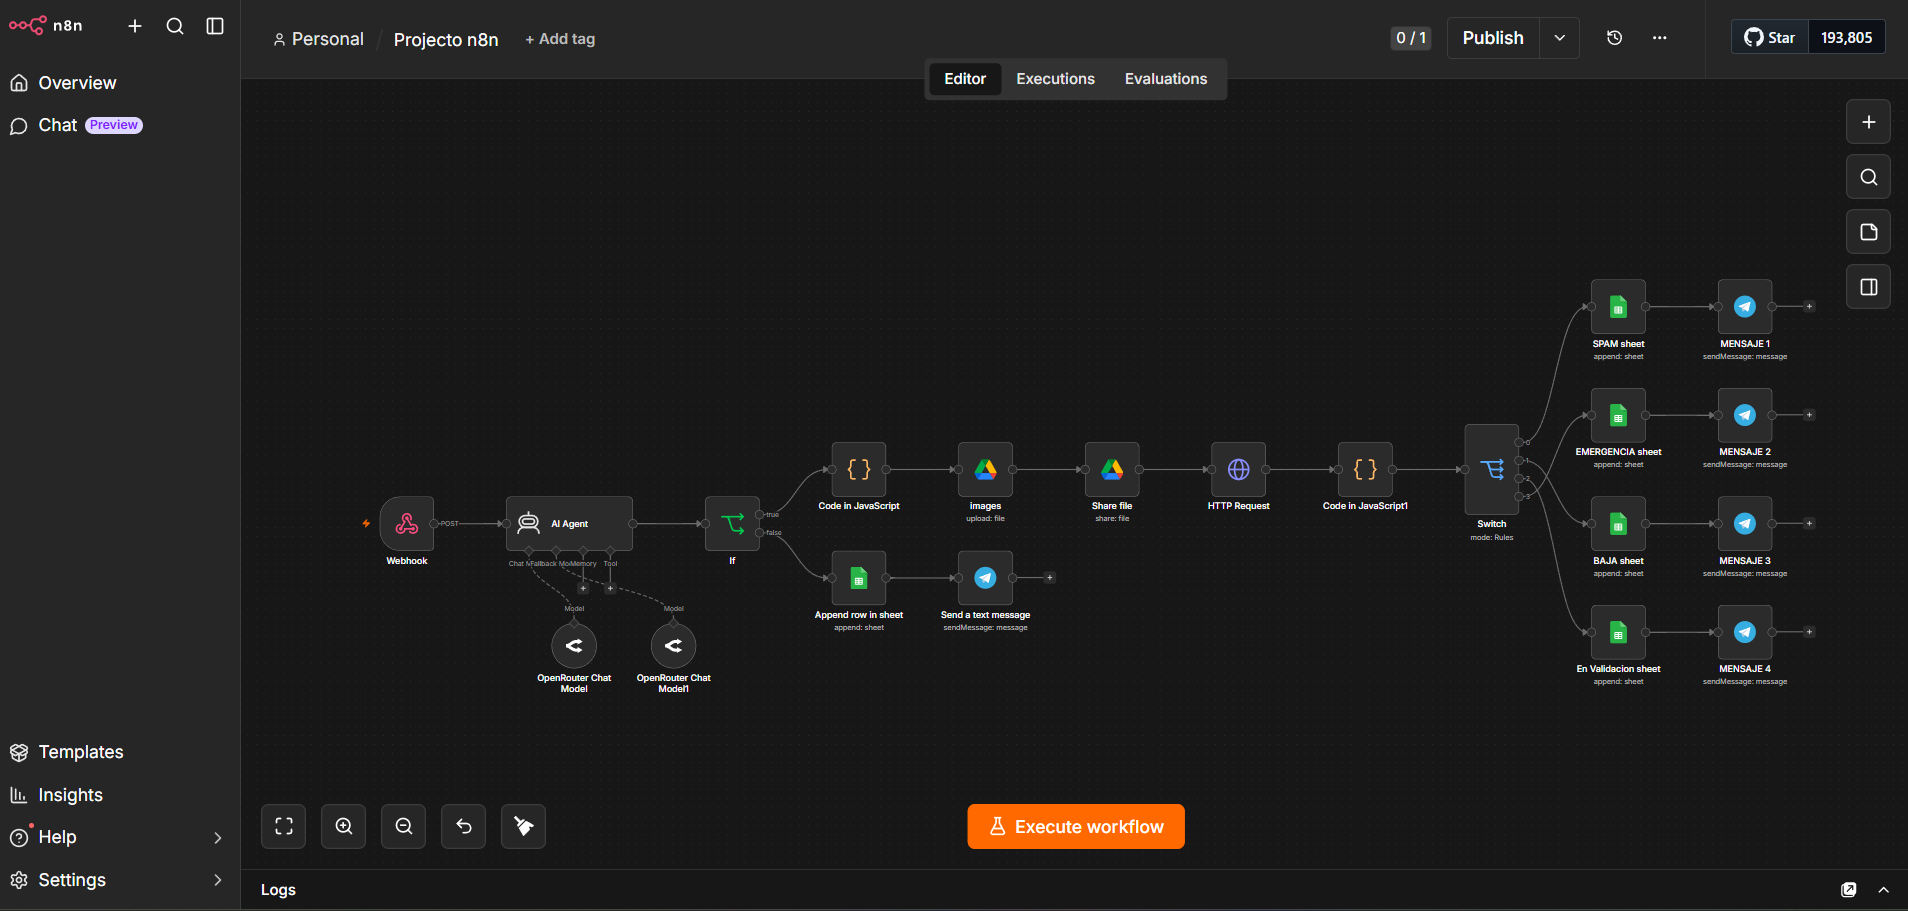
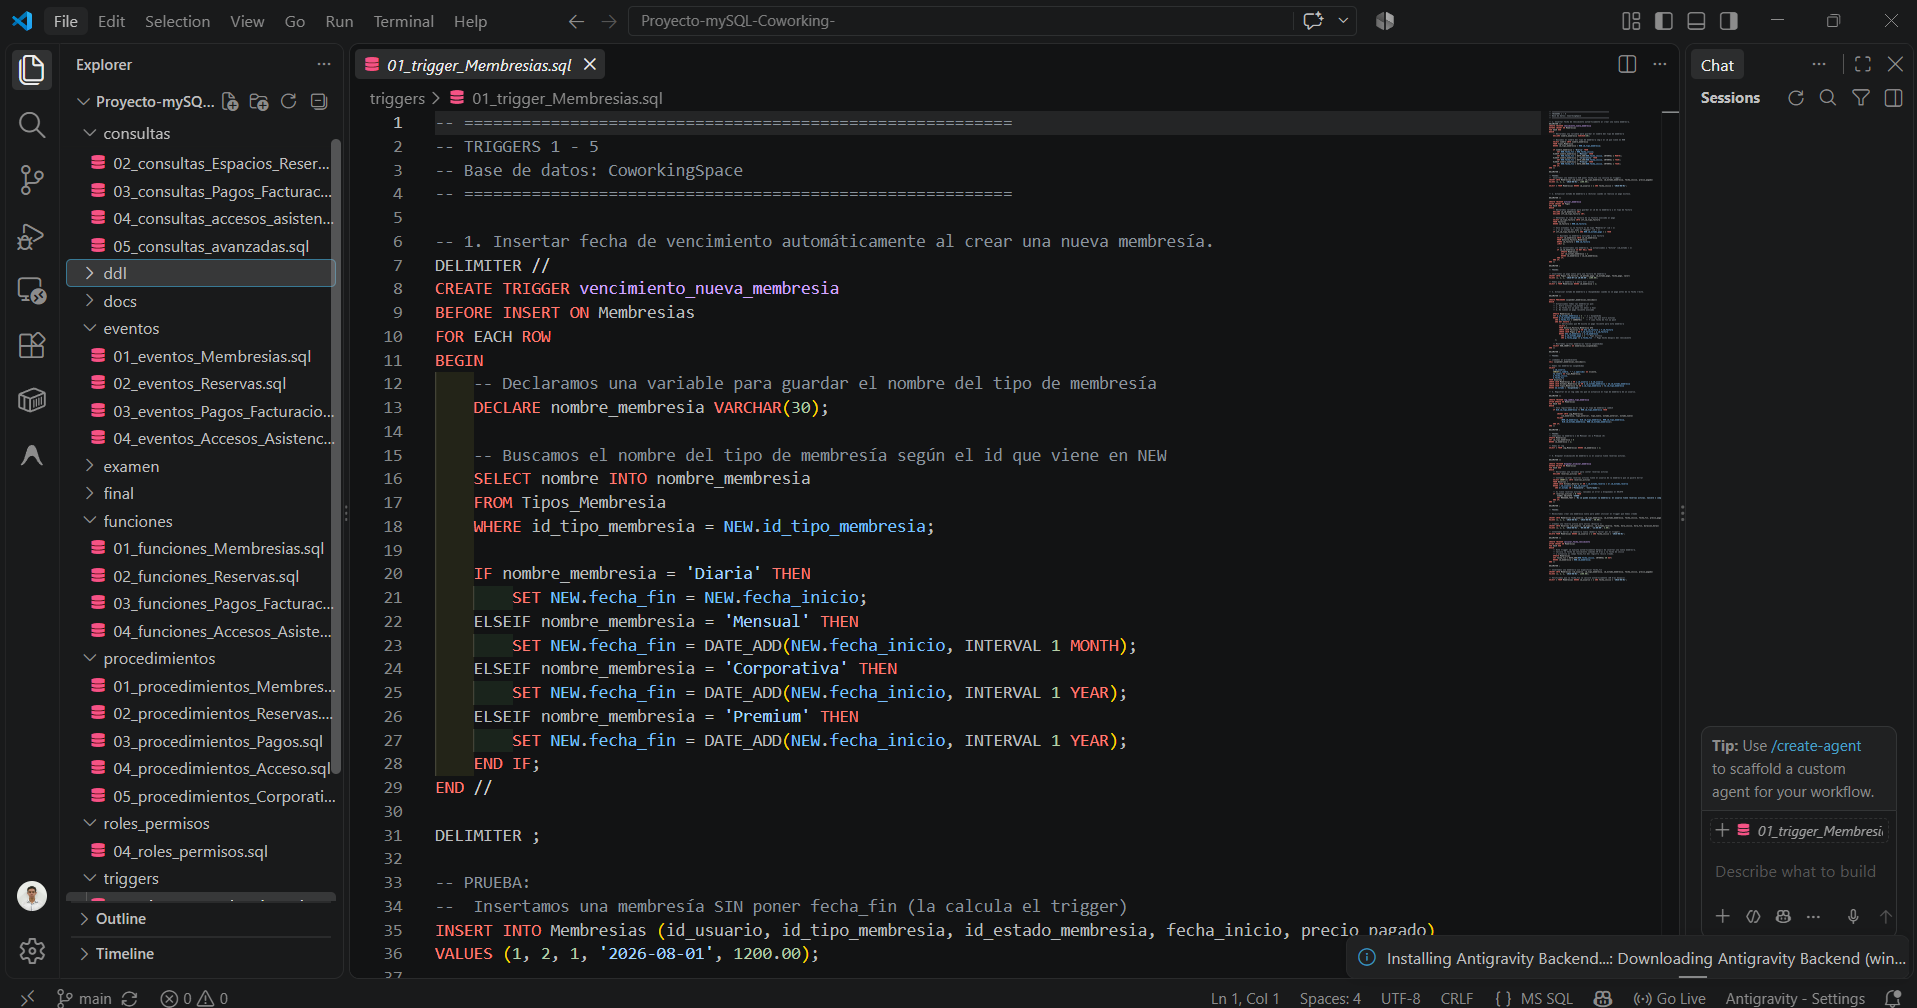
First commit

diff --git a/index.html b/index.html
@@ -11,9 +11,9 @@
     <link rel="stylesheet" href="styles.css">
 
         <!-- ============================================================
-         ⚙ CONFIGURACIÓN RÁPIDA — EDITA AQUÍ TU MISIÓN, VISIÓN Y CV
-         (No hace falta tocar nada más del HTML)
-         ============================================================ -->
+        ⚙ CONFIGURACIÓN RÁPIDA — EDITA AQUÍ TU MISIÓN, VISIÓN Y CV
+        (No hace falta tocar nada más del HTML)
+        ============================================================ -->
     <script>
         window.MI_PORTAFOLIO = {
             // ✏ 1. TU MISIÓN (escríbela entre las comillas)
@@ -29,7 +29,12 @@
             //                                   -> pega aquí el enlace de Drive (Clic derecho
             //                                       sobre el archivo > Compartir > Copiar enlace).
             //                                       El código lo convierte solo al formato embebible.
-            hojaDeVida: "cv/Brayan_Fonseca_CV.pdf"
+            hojaDeVida: "cv/Brayan_Fonseca_CV.pdf",
+            githubProyectos: {
+                "#001": "https://github.com/BrayanFonseca2911/Proyecto-java-RapidExpress",   // 👉 Pega aquí el repo del proyecto mySQL (Flujo Reportes)
+                "#002": "https://github.com/BrayanFonseca2911/Proyecto-mySQL-Coworking-",   // 👉 Pega aquí el repo del proyecto CampusBuild
+                "#003": "https://github.com/BrayanFonseca2911/Proyecto_Campusbuild"    // 👉 Pega aquí el repo del proyecto Music Stream
+            }
         };
     </script>
 </head>
@@ -268,10 +273,11 @@
                         <button type="button" class="btn btn-primary cv-btn" id="btnVerCV">
                             <span class="btn-corner"></span>
                             <i class="fas fa-eye"></i>
-                            <span>Ver hoja de vida</span>
                         </button>
                         <a href="#" class="cv-download" id="btnDescargarCV" download>
-                            <i class="fas fa-download"></i> Descargar
+                            <i class="fas fa-download"></i>
+                            <span class="btn-corner"></span>
+                            <span>Descargar hoja de vida</span>
                         </a>
                     </div>
                 </div>
@@ -394,6 +400,16 @@
                     <span class="skill-percent">74%</span>
                 </div>
             </div>
+            <div class="skill-card reveal" data-tilt>
+                <div class="skill-corner"></div>
+                <div class="skill-icon"><i class="fas fa-database"></i></div>
+                <h3>PostgreSQL</h3>
+                <p>Bases de datos</p>
+                <div class="skill-level">
+                    <div class="skill-fill" style="--level: 70%"></div>
+                    <span class="skill-percent">70%</span>
+                </div>
+            </div>
         </div>
     </section>
 
@@ -405,23 +421,48 @@
         <div class="section-line"></div>
     </div>
     <div class="projects-grid">
+        
+        <article class="project-card reveal" data-tilt>
+            <div class="project-image">
+                <div class="project-scanline"></div>
+                <img src="project-2.png" alt="WeatherNow" class="project-img">
+                <div class="project-overlay">
+                    <a href="#" target="_blank" rel="noopener noreferrer" 
+                    class="project-link project-github" data-proyecto="#001" 
+                    title="Ver repositorio en GitHub" aria-label="Repositorio 
+                    GitHub del proyecto"><i class="fab fa-github"></i></a>
+                </div>
+                <div class="project-id">#003</div>
+            </div>
+            <div class="project-content">
+                <span class="project-category">Orden</span>
+                <h3>RapidExpress</h3>
+                <p>Pagina web diseñada parecida a Spotify donde los usuarios pueden reproducir música y crear listas de reproducción. Tambien hay paquetes de musica premium donde puede escuchar musica sin anuncios.</p>
+                <div class="project-tech">
+                    <span>Java</span><span>Apache NetBeans</span>
+                </div>
+            </div>
+        </article>
+        
         <article class="project-card reveal" data-tilt>
             <div class="project-image">
                 <div class="project-scanline"></div>
                 <img src="project-3.png" alt="ShopFlow" class="project-img">
+                <div class="project-overlay">
+                    <a href="#" target="_blank" rel="noopener noreferrer" class="project-link project-github" data-proyecto="#002" title="Ver repositorio en GitHub" aria-label="Repositorio GitHub del proyecto"><i class="fab fa-github"></i></a>
+                </div>
                 <div class="project-id">#001</div>
             </div>
             <div class="project-content">
                 <span class="project-category">Bases de Datos</span>
-                <h3>mySQL</h3>
-                <p>Desarrollo de una pagina web donde el usuario puede hacer un
-                reporte de una emergencia en la ciudad o barrio. Utilizamos un
-                agente de IA que decide si el daño es critico, bajo, o puede ser un
-                posible spam. Tambien desarrollamos un chatbot por telegram
-                donde envia todos los reportes realizados en la pagina web y el
-                usuario tambien puede mirar los reportes que el ha hecho.</p>
+                <h3>Coworking</h3>
+                <p>Base de datos relacional que administra usuarios y
+membresías, espacios y reservas (escritorios, oficinas, salas), pagos y
+facturación, control de acceso mediante RFID o QR, y define 5 roles de
+sistema. Incluye 100 consultas SQL, 20 triggers, 20 eventos
+programados y 20 procedimientos almacenados.</p>
                 <div class="project-tech">
-                    <span>n8n</span><span>JavaScript</span><span>Telegram</span>
+                    <span>Dbeaver</span><span>mySQL</span>
                 </div>
             </div>
         </article>
@@ -429,12 +470,13 @@
         <article class="project-card reveal" data-tilt>
             <div class="project-image">
                 <div class="project-scanline"></div>
-                <div class="project-overlay">
-                    <a href="#" class="project-link"><i class="fas fa-external-link-alt"></i></a>
-                    <a href="#" class="project-link"><i class="fab fa-github"></i></a>
-                    <img src="project-1.png" alt="TaskMaster" class="project-img">
-                </div>
                 <img src="project-1.png" alt="TaskMaster" class="project-img">
+                <div class="project-overlay">
+                    <a href="#" target="_blank" rel="noopener noreferrer" 
+                    class="project-link project-github" data-proyecto="#003" 
+                    title="Ver repositorio en GitHub" aria-label="Repositorio 
+                    GitHub del proyecto"><i class="fab fa-github"></i></a>
+                </div>
                 <div class="project-id">#002</div>
             </div>
             <div class="project-content">
@@ -446,23 +488,7 @@
                 aplicación personalizada que le permita llevar el control de sus
                 proyectos en todas las etapas de construcción.</p>
                 <div class="project-tech">
-                    <span>JavaScript</span><span>HTML</span><span>CSS</span>
-                </div>
-            </div>
-        </article>
-
-        <article class="project-card reveal" data-tilt>
-            <div class="project-image">
-                <div class="project-scanline"></div>
-                <img src="project-2.png" alt="WeatherNow" class="project-img">
-                <div class="project-id">#003</div>
-            </div>
-            <div class="project-content">
-                <span class="project-category">Orden</span>
-                <h3>Music Stream</h3>
-                <p>Pagina web diseñada parecida a Spotify donde los usuarios pueden reproducir música y crear listas de reproducción. Tambien hay paquetes de musica premium donde puede escuchar musica sin anuncios.</p>
-                <div class="project-tech">
-                    <span>HTML</span><span>CSS</span>
+                    <span>JavaScript</span><span>HTML</span><span>CSS</span><span>VSC</span>
                 </div>
             </div>
         </article>

diff --git a/script.js b/script.js
@@ -502,14 +502,23 @@ window.addEventListener('resize', () => {
     // Así basta pegar el link normal de "Compartir" y funciona sin tocar nada más.
     function urlEmbedDrive(u) {
         const m = u.match(/drive\.google\.com\/file\/d\/([^/]+)/);
-        if (m) return 'https://drive.google.com/file/d/1-Ck_M5kFOo9oDXwlB13-s18-XG8IzC85/view?usp=sharing' + m[1] + '/preview';
+        if (m) return 'https://drive.google.com/file/d/' + m[1] + '/preview';
         const s = u.match(/drive\.google\.com\/open\?id=([^&]+)/);
-        if (s) return 'https://drive.google.com/file/d/1-Ck_M5kFOo9oDXwlB13-s18-XG8IzC85/view?usp=sharing' + s[1] + '/preview';
+        if (s) return 'https://drive.google.com/file/d/' + s[1] + '/preview';
         return u;
     }
 
+    // Enlace de DESCARGA directa de Drive (para que "Descargar" funcione con links de Drive).
+    function urlDescargaDrive(u) {
+        const m = u.match(/drive\.google\.com\/file\/d\/([^/]+)/);
+        if (m) return 'https://drive.google.com/uc?export=download&id=' + m[1];
+        const s = u.match(/drive\.google\.com\/open\?id=([^&]+)/);
+        if (s) return 'https://drive.google.com/uc?export=download&id=' + s[1];
+        return u;
+    }
     const esExterno = /^https?:\/\//i.test(cvRaw);
     const cvUrl = esExterno ? urlEmbedDrive(cvRaw) : cvRaw;
+    const cvDownloadUrl = esExterno && cvRaw.includes('drive.google.com') ? urlDescargaDrive(cvRaw) : cvRaw;
     const btnVerCV = document.getElementById('btnVerCV');
     const btnDescargar = document.getElementById('btnDescargarCV');
     const cvModal = document.getElementById('cvModal');
@@ -517,7 +526,7 @@ window.addEventListener('resize', () => {
     const cvCerrar = document.getElementById('cvModalClose');
     const cvBackdrop = document.getElementById('cvModalBackdrop');
 
-    if (btnDescargar && cvUrl) btnDescargar.href = cvUrl;
+    if (btnDescargar && cvDownloadUrl) btnDescargar.href = cvDownloadUrl;
 
     function abrirCV() {
         if (!cvModal || !cvFrame) return;
@@ -550,5 +559,20 @@ window.addEventListener('resize', () => {
     if (cvBackdrop) cvBackdrop.addEventListener('click', cerrarCV);
     document.addEventListener('keydown', (e) => {
         if (e.key === 'Escape' && cvModal && cvModal.classList.contains('open')) cerrarCV();
+    });
+        // 3. Botón de GitHub en cada proyecto: toma el enlace de window.MI_PORTAFOLIO.githubProyectos
+    //    (configurado en el <head> de index.html) y lo asigna al botón correspondiente.
+    const linksGithub = cfg.githubProyectos || {};
+    document.querySelectorAll('.project-github').forEach(btn => {
+        const id = btn.dataset.proyecto;
+        const url = (linksGithub[id] || '').trim();
+        if (url && url !== '#') {
+            btn.href = url;                              // abre el repo en pestaña nueva
+        } else {
+            btn.addEventListener('click', (e) => {
+                e.preventDefault();
+                alert('Aún no has configurado el enlace de GitHub de este proyecto.\n\nEdita "githubProyectos" en window.MI_PORTAFOLIO dentro del <head> de index.html y pega la URL del repositorio para "' + id + '".');
+            });
+        }
     });
 })();
